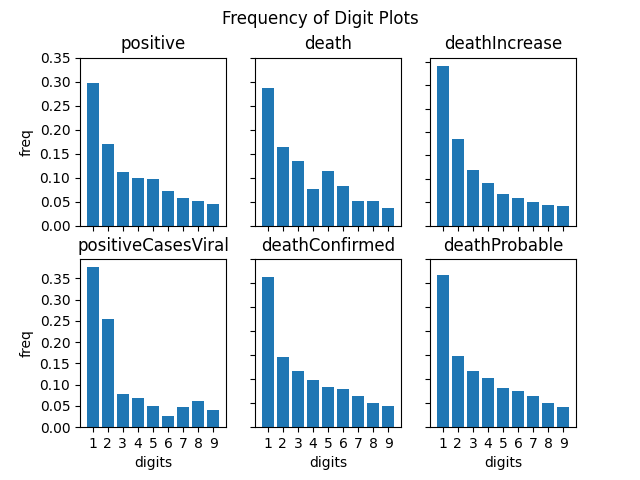
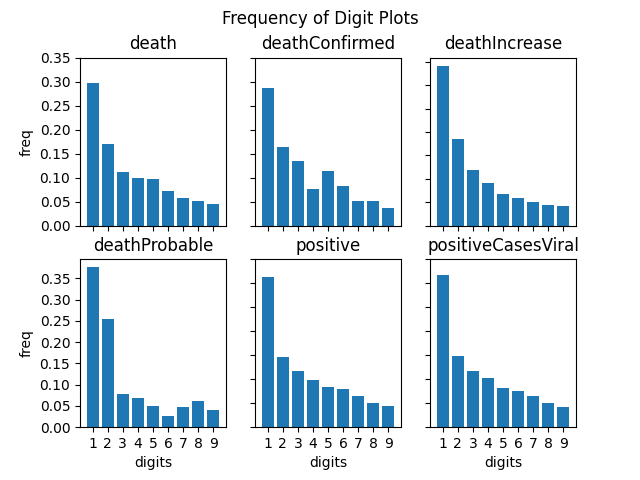
Labels were incorrect. Fixed

diff --git a/src/graphs.py b/src/graphs.py
@@ -1,0 +1,31 @@
+import matplotlib.pyplot as plt
+import numpy as np
+import utils
+
+def display_freq(freq_tables):
+    for (table_name, table) in freq_tables:
+        print("===============================================================")
+        print(f"Table Name: {table_name}, Total Count: {table['count'].sum()}")
+        print("===============================================================")
+        print(table)
+        print("===============================================================")
+        print("")
+
+def graph_freq(freq_tables, show=False, export=True, export_to="../plots/frequency_graphs"):
+    fig, axs = plt.subplots(2, int(len(freq_tables) / 2))
+    fig.suptitle("Frequency of Digit Plots")
+
+    for ((table_name, table), ax) in zip(freq_tables, utils.flatten(axs)):
+        ax.bar(table.digit, table.freq)
+        ax.set_title(table_name)
+        ax.set_xlabel("digits")
+        ax.set_ylabel("freq")
+        ax.label_outer()
+        ax.set_xticks(np.arange(1, 10, step=1))
+        ax.set_yticks(np.arange(0, .4, step=.05))
+
+    if export:
+        fig.savefig(f"{export_to}.png")
+        fig.savefig(f"{export_to}.pdf")
+    if show:
+        plt.show()

diff --git a/src/main.py b/src/main.py
@@ -1,11 +1,12 @@
 import pandas as pd
-import matplotlib
 import graphs
 import analysis as an
 
 if __name__ == "__main__":
-    data = pd.read_csv("all-states-history.csv")
+    data = pd.read_csv("../data/all-states-history.csv")
     columns = ["positive", "death", "deathIncrease", "positiveCasesViral", "deathConfirmed", "deathProbable"]
     freq_data = [an.analyse(data, col) for col in data if col in columns]
-    graphs.graph_freq(freq_data, columns)
+    graphs.graph_freq(freq_data)
+
+    graphs.display_freq(freq_data)
 

diff --git a/src/analysis.py b/src/analysis.py
@@ -25,4 +25,5 @@ def analyse(data, column):
     freq = freq.drop(0)
     freq["freq"] = freq["count"] / freq["count"].sum()
     freq["log_freq"] = process_column(freq.freq, logRecip)
-    return freq
+    freq["digit"] = freq.index
+    return (column, freq)
